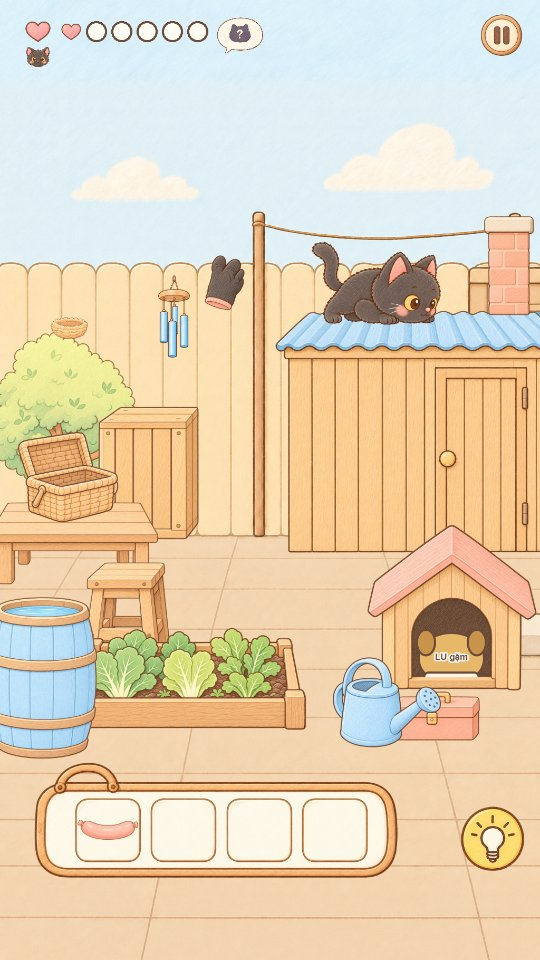
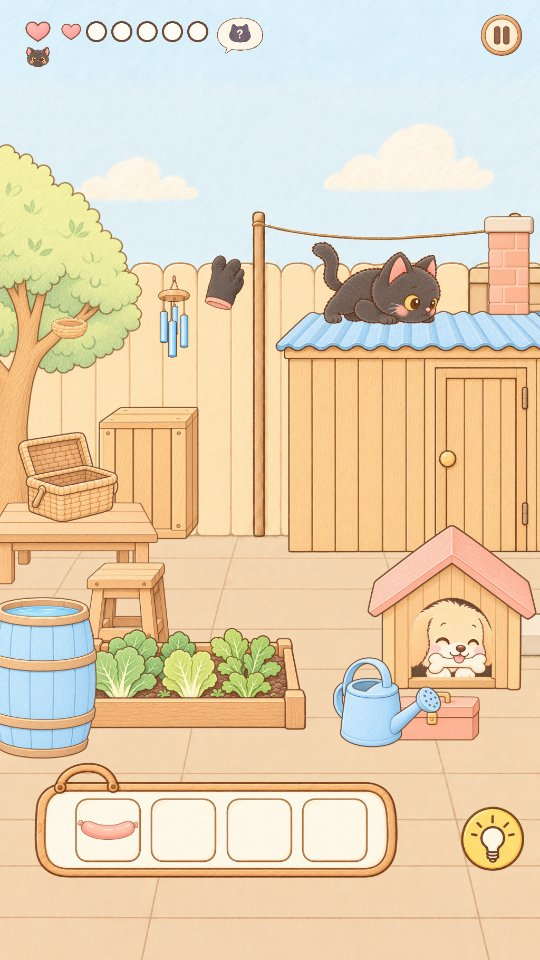
L6 ghép đủ ảnh: cây vẽ lại phóng như demo (ngọn y ≈ 120, ổ chim trên cành ngang), Lu gặm xương ở ngưỡng cửa chuồng
- Chơi trọn màn ở khung 9:16 và 3:4 tới màn thưởng; ảnh so demo: art/review/l6_ghep_*.jpg.

Changed region(s): [[0.0, 0.125, 0.2667, 0.5312], [0.7407, 0.625, 0.9185, 0.7188]]

diff --git a/game/src/level6.js b/game/src/level6.js
@@ -10,7 +10,7 @@ import { PAL, rr, el, label, block } from './blocks.js';
 const DEF = {
   player_call: [260, 1385],
   // QUY-TRINH bước 5: đồ đứng yên đo trên demo đã duyệt (G6-21, l6_demo_path_play.png, khung 1024x1536), neo theo anchors.json.
-  l6_tree: [100, 880], l6_bird_nest: [132, 480], l5_wind_chime: [330, 380], l6_glove_black_idle: [418, 342], // găng vắt đỉnh rào: neo đỉnh
+  l6_tree: [19, 848], l6_bird_nest: [132, 480], l5_wind_chime: [330, 380], l6_glove_black_idle: [418, 342], // găng vắt đỉnh rào: neo đỉnh
   // G6-18: bố cục như G6-16, đồ to theo G6-17 tại chỗ (neo giữa đáy). Kho 560 × 541 (G6-17) để mặt mái y 475, 4 bậc hụt đều 120;
   // mép mái trái x ≈ 580. Mun nằm mái và ống khói hạ theo mặt mái (−66).
   // Ghép ảnh thật: kho vẽ lại (A6-11) đặt cho đỉnh mái trùng demo (y 447), mép trái 522; Mun nằm mái như demo.
@@ -21,7 +21,7 @@ const DEF = {
   // Bàn Art vẽ thấp hơn bàn trong demo: đặt theo mặt bàn (y ≈ 810 như demo), giỏ trên mặt bàn như demo.
   l6_table: [140, 966], l6_picnic_basket_closed: [123, 848], l6_picnic_basket_open: [123, 848],
   // G6-13/16: Lu ngồi sủa trước kho, bên phải chỗ A. G6-18: nhích phải 55 (phuy rộng 170 ở chỗ đầu che Lu).
-  l6_dog_bark: [700, 975], l6_dog_house: [856, 1167], l6_dog_house_front: [856, 1167], l6_dog_chew: [856, 1167], // đầu Lu thò cửa chuồng
+  l6_dog_bark: [700, 975], l6_dog_house: [856, 1167], l6_dog_house_front: [856, 1167], l6_dog_chew: [856, 1152], // đầu Lu thò cửa chuồng, đáy ở ngưỡng cửa
   l6_dog_belly: [856, 1270], // G6-16: lăn ra nằm ngay trước cửa chuồng
   // G6-4, G6-5: chỗ đầu các món rải rác. Hàng trước sân đáy y 1290 (túi đồ từ y ≈ 1298). Ghế đẩu dưới bàn bên trái.
   // G6-18: hàng trước to lên không đủ 1024 cho 5 món cạnh nhau: hộp dụng cụ nhích trái 20, bụi rau lùi 28 (phuy che nhẹ mép phải),
@@ -133,7 +133,8 @@ export class Level6 extends ObjectLevel {
   get fallbacks() { return FB; }
   get fallbackCanvas() { return true; }
   get defaultPos() { return DEF; }
-  get fitDefaults() { return { mun_run: 320, l5_wind_chime: 60 }; } // ảnh thật dùng lại từ L5, cùng cỡ L5
+  // mun_run, chuông gió: ảnh dùng lại từ L5, cùng cỡ L5. Cây (A6-11) phóng như demo: ngọn y ≈ 120, ổ chim nằm trên cành ngang phải.
+  get fitDefaults() { return { mun_run: 320, l5_wind_chime: 60, l6_tree: 430 }; }
   get rewardFish() { return 30 + 5 * this.secrets; }         // +5 mỗi bí mật (ổ chim, bình tưới)
   get suaHand() { return false; }
   get bubblePop() { return { peak: 0.9, up: 260, rest: 0.7, down: 160 }; }
